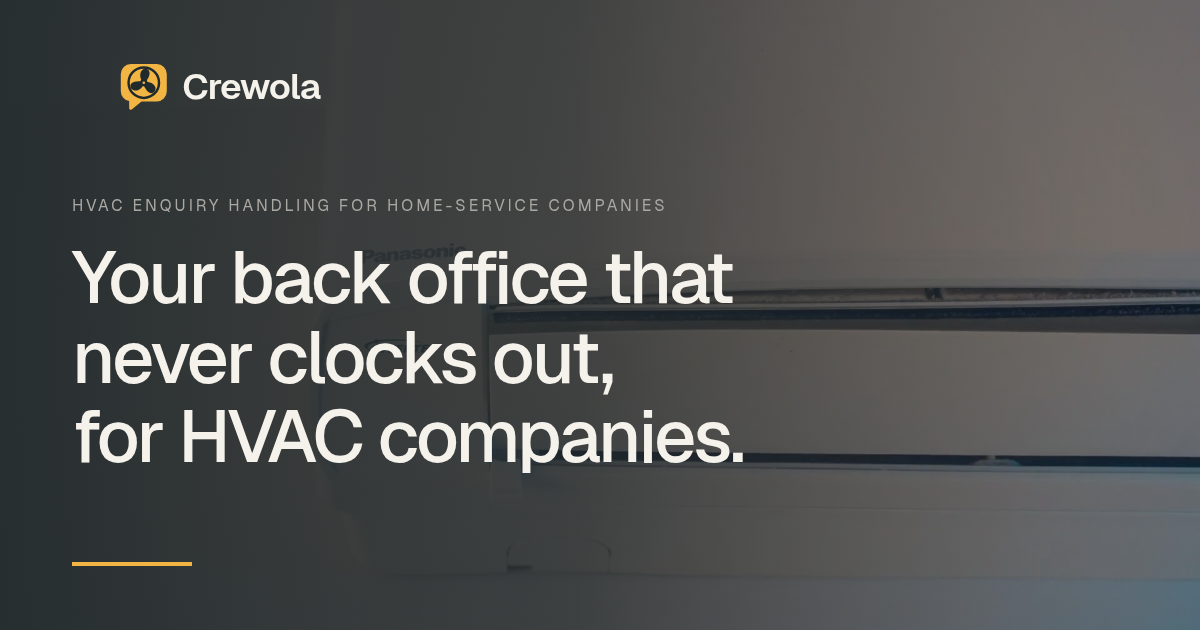
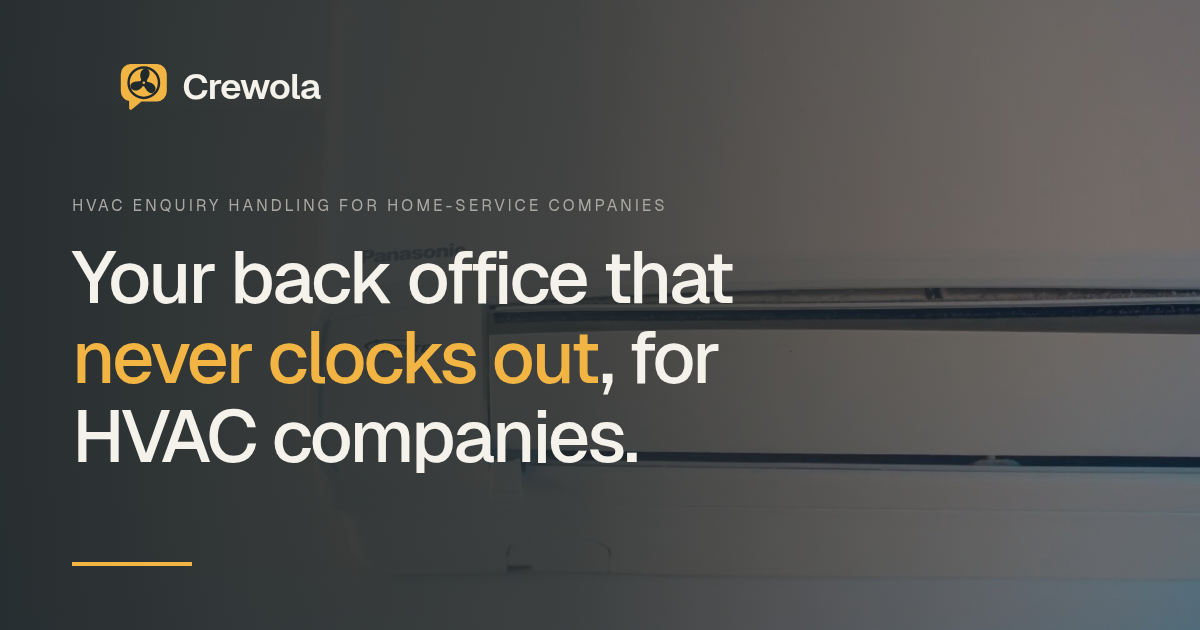
Hero: 'Your back office that never clocks out, for HVAC companies.' in two lines, amber accent
Headline sized to its column (6.6cqw, balanced) with a reserved two-line height, so it sets
in two lines at 1280 and 390 with no shift. 'never clocks out' is #F2B544 on the dark hero;
the hero wash is darker so the amber reads at 4.9:1 or better. Share image matches.

Changed region(s): [[0.0617, 0.5127, 0.6167, 0.754], [0.5242, 0.5127, 0.6167, 0.6333]]

diff --git a/public/styles.css b/public/styles.css
@@ -68,7 +68,7 @@ h3{font:500 27px/1.3 var(--font);letter-spacing:-.6px;margin:15px 0}
 .hero-media picture{display:contents}
 .hero-media video{opacity:0;transition:opacity .5s}
 .hero-media video.is-playing{opacity:1}
-.hero-wash{position:absolute;inset:0;background:linear-gradient(90deg,#20292ca8 0%,#20292c55 58%,#20292c2e),linear-gradient(0deg,var(--bg) 0%,transparent 27%);z-index:-1}
+.hero-wash{position:absolute;inset:0;background:linear-gradient(90deg,#20292ce0 0%,#20292cc0 58%,#20292c70),linear-gradient(0deg,var(--bg) 0%,transparent 27%);z-index:-1}
 .hero-content{width:100%;display:grid;grid-template-columns:minmax(0,1fr) minmax(0,500px);gap:48px;align-items:center}
 .hero h1{font:500 clamp(48px,5.2vw,78px)/1.1 var(--font);letter-spacing:-2.9px;margin:25px 0;max-width:760px}
 .hero h1 em{font-style:normal;display:block}
@@ -241,7 +241,7 @@ section.page{padding:190px 0 110px}
   .handoff{gap:10px}
   .handoff li{font-size:12px;grid-template-columns:28px 1fr}
   .hero-card figcaption{font-size:9px;margin-top:14px;padding-top:12px}
-  .hero-wash{background:linear-gradient(90deg,#20292cb3,#20292c55),linear-gradient(0deg,var(--bg),transparent 45%)}
+  .hero-wash{background:linear-gradient(90deg,#20292ce0,#20292cb8),linear-gradient(0deg,var(--bg),transparent 45%)}
   .hero-foot{padding:0 22px;font-size:9px;bottom:22px}
   .hero-foot>span{max-width:180px}
   .video-control{font-size:9px;padding:9px 11px}
@@ -629,3 +629,5 @@ ol.steps{list-style:none;margin:0;padding:0}
 .hero-copy:has(#headline){container-type:inline-size}
 #headline{font-size:clamp(19px,6.6cqw,60px);line-height:1.1;letter-spacing:-.035em;min-height:2.2em;text-wrap:balance}
 #headline em{display:inline}
+/* The headline accent: the mark's amber as text colour on the dark hero (the only accent; no fade, no motion). */
+#headline .h1-accent{color:#F2B544}

diff --git a/scripts/make-images.py b/scripts/make-images.py
@@ -26,9 +26,10 @@ body{{margin:0;width:1200px;height:630px;font-family:Geist;color:#F5F2EB;backgro
 .eyebrow{{font-size:16px;letter-spacing:3px;text-transform:uppercase;color:#aaa8a3;margin-bottom:22px}}
 h1{{font-weight:500;font-size:74px;line-height:1.08;letter-spacing:-2.8px;margin:0;max-width:820px}}
 .bar{{width:120px;height:4px;background:#F2B544}}
+.accent{{color:#F2B544}}
 </style></head><body><div class="wash"></div><div class="in">
 <div class="brand">{LOGO}</div>
-<div><div class="eyebrow">{html.escape(eyebrow)}</div><h1>{'<br>'.join(html.escape(l) for l in lines)}</h1></div>
+<div><div class="eyebrow">{html.escape(eyebrow)}</div><h1>{' '.join(html.escape(l) for l in lines).replace(html.escape(ACCENT), f'<span class="accent">{html.escape(ACCENT)}</span>', 1) if ACCENT else '<br>'.join(html.escape(l) for l in lines)}</h1></div>
 <div class="bar"></div></div></body></html>'''
 
 def icon(size):
@@ -61,6 +62,7 @@ def write_ico(pngs, out):
     out.write_bytes(head + b''.join(data))
 
 d = json.loads((ROOT / 'src/content/sectors/home-services.json').read_text())
+ACCENT = d['hero'].get('accent', '')
 shot(card('HVAC enquiry handling for home-service companies', d['hero']['headline'], ROOT / 'public/media/home-services/poster.jpg'),
      ROOT / 'public/og/home.png', 1200, 630)
 shot(icon(180), ROOT / 'public/apple-touch-icon.png', 180, 180)
